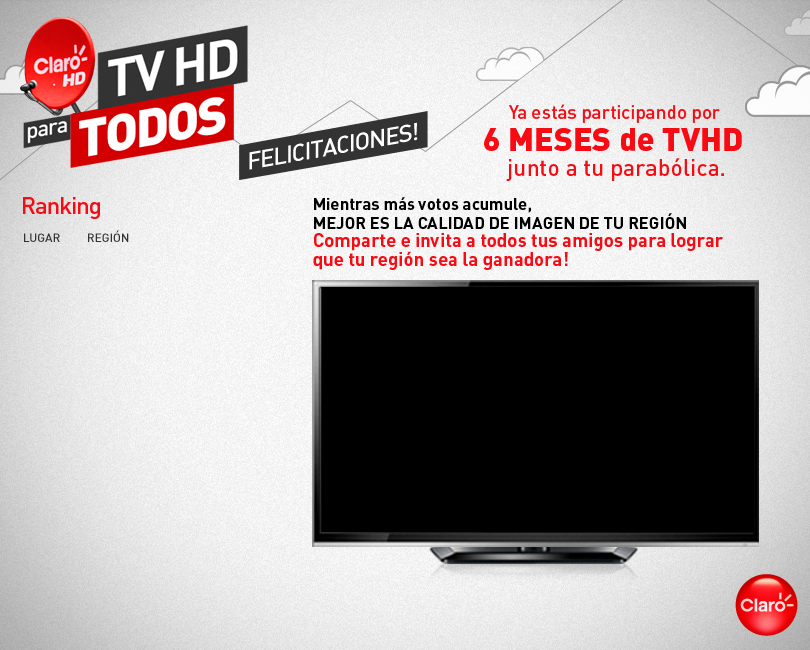
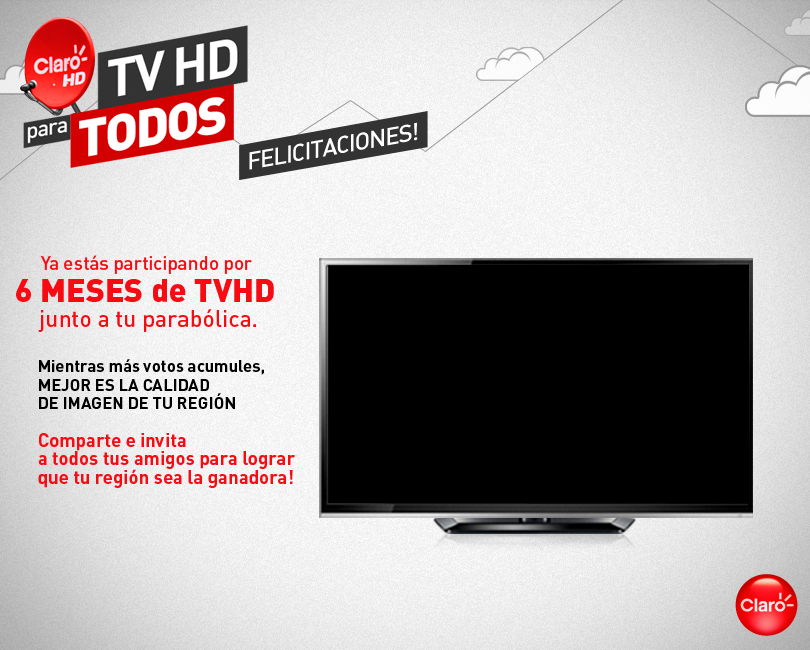
Correcciones a la maqueta de la aplicacion de Claro Ganate la Parabolica

diff --git a/app/assets/stylesheets/fb_app_claro_ganate_la_parabolica.css b/app/assets/stylesheets/fb_app_claro_ganate_la_parabolica.css
@@ -88,6 +88,46 @@ h2 a:hover {
 h2 a:visited {
 	color: #FFF;
 }
+
+.btn_input {
+	border-radius: 5px;
+	font-family: DIN-Medium;
+	text-transform: uppercase;
+	font-size: 17px;
+	letter-spacing: -1px;
+	text-decoration: none;
+	background: url(http://wolly.herokuapp.com/assets/fb_app_claro_ganate_la_parabolica/bg_btn_a.png) 0 0 no-repeat;
+	padding: 8px 0px 12px 10px!important;
+	width: 146px!important;
+	height: 46px;
+	color: #fff;
+	text-align: left;
+	position: absolute;
+	top: 235px;
+	left: 250px;
+}
+.btn_input:active {
+	border-radius: 5px;
+	font-family: DIN-Medium;
+	text-transform: uppercase;
+	font-size: 17px;
+	letter-spacing: -1px;
+	text-decoration: none;
+	background: url(http://wolly.herokuapp.com/assets/fb_app_claro_ganate_la_parabolica/bg_btn_b.png) 0 0 no-repeat;
+	padding: 8px 0px 12px 10px!important;
+	width: 146px!important;
+	height: 46px;
+	color: #fff;
+	text-align: left;
+	position: absolute;
+	top: 235px;
+	left: 250px;
+}
+
+
+
+
+
 h3 {
 	font-family: DIN-Medium;
 	text-transform: uppercase;
@@ -205,45 +245,68 @@ h3 a:visited {
 
 /*RANKING*/
 .rank_table {
-	font-family: DIN-RegularAlternate;
-	position: absolute;
-	top: 253px;
-	left: 20px;
-	width: 270px;
-	background-color: #FFF;
-	line-height: 14px;
-	font-size: 0.9em;
-	color: #333;
-	-webkit-box-shadow: 0px 0px 6px 0px rgba(46,46,46,0.51);
-	-moz-box-shadow: 0px 0px 6px 0px rgba(46,46,46,0.51);
-	box-shadow: 0px 0px 6px 0px rgba(46,46,46,0.51);
+font-family: DIN-RegularAlternate;
+position: absolute;
+top: 253px;
+left: 20px;
+width: 270px;
+background-color: #FFF;
+line-height: 14px;
+font-size: 0.9em;
+-webkit-box-shadow: 0px 0px 6px 0px rgba(46,46,46,0.51);
+-moz-box-shadow: 0px 0px 6px 0px rgba(46,46,46,0.51);
+box-shadow: 0px 0px 6px 0px rgba(46,46,46,0.51);
+}
+.rank_table tr {
+cursor:pointer;
+color: #333;
+}
+.rank_table tr:hover {
+background-color: #DE0209;
+color: #FFF!important;
 }
 .rank_table td {
-	padding: 5px;
-	border-top: 1px solid #DDD;
+padding: 5px;
+border-top: 1px solid #DDD;
 }
 .rank_table td>strong {
-	padding-left: 8px;
+padding-left: 8px;
 }
-.rank_first {
-	background-color: #DE0209;
-	color: #FFF;
+.rank_active {
+background-color: #DE0209;
+color: #FFF!important;
 }
 .rank_btn_a {
-	position: absolute;
-	top: 584px;
-	left: 374px;
+position: absolute;
+top: 584px;
+left: 374px;
 }
 .rank_btn_b {
-	position: absolute;
-	top: 584px;
-	left: 549px;
+position: absolute;
+top: 584px;
+left: 549px;
 }
-.rank_video {
-	position: absolute;
-	top: 287px;
-	left: 321px;
+.rank_hd {
+position: absolute;
+top: 289px;
+left: 326px;
+max-width: 421px;
+width: 25%;
+height: 237px;
+z-index: 100;
+display: block;
+overflow: hidden;
+border-right: 3px solid #030303;
 }
+.rank_px {
+position: absolute;
+top: 289px;
+left: 326px;
+width: 421px;
+height: 237px;
+z-index: 0;
+}
+
 
 
 /*REGISTRO*/
@@ -315,36 +378,46 @@ h3 a:visited {
 
 
 /*VOTA*/
-.vota_table {
-	font-family: DIN-RegularAlternate;
-	font-size: 0.9em;
-	color: #333;	
-	position: absolute;
-	top: 236px;
-	left: 249px;
-	width: 335px;
-	background-color: #FFF;
-	line-height: 14px;
-	-webkit-box-shadow: 0px 0px 6px 0px rgba(46, 46, 46, 0.51);
-	-moz-box-shadow: 0px 0px 6px 0px rgba(46,46,46,0.51);
-	box-shadow: 0px 0px 6px 0px rgba(46, 46, 46, 0.51);
+.vota_bg {
+position: absolute;
+top: 230px;
+left: 249px;
+background: #FFF;
+width: 300px;
+-webkit-box-shadow: 0px 0px 6px 0px rgba(46, 46, 46, 0.51);
+-moz-box-shadow: 0px 0px 6px 0px rgba(46,46,46,0.51);
+box-shadow: 0px 0px 6px 0px rgba(46, 46, 46, 0.51);
 }
-.vota_table td {
-	padding: 5px;
-	border-top: 1px solid #DDD;
-	cursor:pointer;
+.vota_bg ul {
+font-family: DIN-RegularAlternate;
+font-size: 0.9em;
+color: #333;
+line-height: 1em;
+list-style: none;
 }
-.vota_table td>strong {
-	padding-left: 8px;
+.vota_bg ul li {
+padding: 0.4em 1em 0.4em 1.5em;
+border-top: 1px solid rgba(58, 58, 58, 0.17);
+cursor:pointer;
 }
-.vota_table tr:hover {
-	background-color: #333;
-	color: #FFF;
+.vota_bg ul li:hover{
+background-color: #333;
+color: #FFF;
+
+}
+.vota_bg ul li a {
+color:#333;
+}
+.vota_bg ul a:hover{
+color: #FFF;
+}
+.vota_bg ul li span {
+font-weight: bold;
 }
 .vota_btn {
-	position: absolute;
-	top: 500px;
-	left: 601px;
+position: absolute;
+top: 500px;
+left: 601px;
 }
 
 /*FELICITACIONES*/
@@ -417,12 +490,12 @@ h3 a:visited {
 }
 .para_btn_b {
 	position: absolute;
-	bottom: 133px;
+	bottom: 17px;
 	left: 239px;
 }
 .para_btn_c {
 	position: absolute;
-	bottom: 133px;
+	bottom: 17px;
 	left: 411px;
 }
 .para_video {

diff --git a/app/controllers/fb_app_claro_ganate_la_parabolica_controller.rb b/app/controllers/fb_app_claro_ganate_la_parabolica_controller.rb
@@ -4,6 +4,7 @@ class FbAppClaroGanateLaParabolicaController < ApplicationController
   before_filter :parse_facebook_signed_request
   before_filter :load_facebook_user, :except => [:index, :ranking, :laparabolica, :premios]
   before_filter :load_fanpage, :except => [:index]
+  helper :fb_app_claro_ganate_la_parabolica
   
   def parse_facebook_signed_request
     @app_id = '576458172388003' if Rails.env.development?
@@ -27,15 +28,30 @@ class FbAppClaroGanateLaParabolicaController < ApplicationController
     if @me_from_database = Participant.find_by_facebook_idnumber(@me_from_graph[:id])
       @nombre   = @me_from_database.facebook_name
       @rut      = @me_from_database.rut
-      @email    = @me_from_database.facebook_email
+      @correo   = @me_from_database.facebook_email
       @telefono = @me_from_database.phone
       @region   = @me_from_database.province
     else
       @nombre   = @me_from_graph[:name]
-      @email    = @me_from_graph[:email]
+      @correo    = @me_from_graph[:email]
       @rut      = ""
       @telefono = ""
     end    
+  end
+
+  def procesar_registro
+    if params[:nombre].present? and params[:correo].present? and params[:rut].present? and params[:telefono].present? and params[:region].present?
+      if @me_from_database = Participant.find_by_facebook_idnumber(@me_from_graph[:id])
+        @me_from_database.update_attributes(:facebook_name => params[:nombre], :facebook_email => params[:correo], :rut => params[:rut], :phone => params[:telefono], :province => params[:region])
+        # Participation.create(:application_id => @app.id, :participant_id => @me_from_database.id, :answer => "Participando")
+      else
+        @me_from_database = Participant.create(:facebook_idnumber => @me_from_graph[:id], :facebook_name => params[:nombre], :facebook_email => params[:correo], :rut => params[:rut], :phone => params[:telefono], :facebook_gender => @me_from_graph[:gender], :province => params[:region])
+        # Participation.create(:application_id => @app.id, :participant_id => @me_from_database.id, :answer => "Participando")
+      end
+      redirect_to fb_app_claro_ganate_la_parabolica_pregunta_path
+    else
+      redirect_to fb_app_claro_ganate_la_parabolica_registro_path, :flash => { :error => "Faltan campos por llenar." }
+    end
   end
 
   def canvas
@@ -72,9 +88,24 @@ class FbAppClaroGanateLaParabolicaController < ApplicationController
   def bases
   end
 
+  def pregunta
+  end
+
+  def vota
+  end
+  
+  def procesar_voto
+    redirect_to fb_app_claro_ganate_la_parabolica_share_path
+  end
+
   def share
+    @nivel_hd = porcentaje_a_px(90)
   end
   
   def laparabolica
+  end
+  
+  def porcentaje_a_px(porcentaje)
+    porcentaje = porcentaje * 434 / 100
   end
 end

diff --git a/config/routes.rb b/config/routes.rb
@@ -13,9 +13,13 @@ Wolly::Application.routes.draw do
   get  "fb_app_claro_ganate_la_parabolica"             => "fb_app_claro_ganate_la_parabolica#index"
   get "fb_app_claro_ganate_la_parabolica_premios"      => "fb_app_claro_ganate_la_parabolica#premios"
   get "fb_app_claro_ganate_la_parabolica_registro"     => "fb_app_claro_ganate_la_parabolica#registro"
+  post "fb_app_claro_ganate_la_parabolica_registro"    => "fb_app_claro_ganate_la_parabolica#procesar_registro"
   get "fb_app_claro_ganate_la_parabolica_ranking"      => "fb_app_claro_ganate_la_parabolica#ranking"
   get "fb_app_claro_ganate_la_parabolica_laparabolica" => "fb_app_claro_ganate_la_parabolica#laparabolica"
   get "fb_app_claro_ganate_la_parabolica_bases"        => "fb_app_claro_ganate_la_parabolica#bases"
+  get "fb_app_claro_ganate_la_parabolica/pregunta"
+  get "fb_app_claro_ganate_la_parabolica/vota"
+  post "fb_app_claro_ganate_la_parabolica/vota"        => "fb_app_claro_ganate_la_parabolica#procesar_voto"
   get "fb_app_claro_ganate_la_parabolica/share", :as => :fb_app_claro_ganate_la_parabolica_share
 
   post "fb_app_paco_rabanne"             => "fb_app_paco_rabanne#index"

diff --git a/app/helpers/fb_app_claro_ganate_la_parabolica_helper.rb b/app/helpers/fb_app_claro_ganate_la_parabolica_helper.rb
@@ -1,7 +1,2 @@
-module FbAppClaroGanateLaParabolicaHelper
-  def menu selected
-    if selected == "premios" then
-      @premios = true
-    end
-  end
+module FbAppClaroGanateLaParabolicaHelper  
 end
